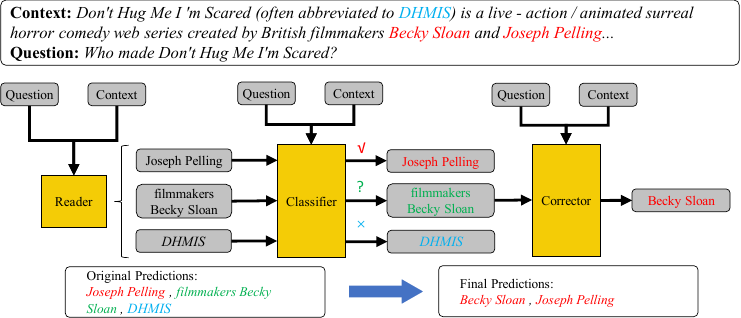
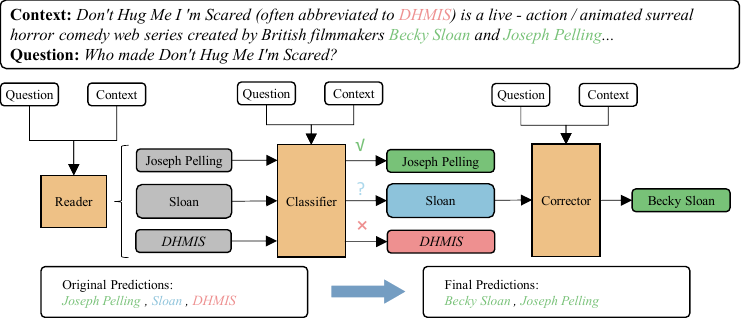
20240921 update

diff --git a/README.md b/README.md
@@ -104,7 +104,7 @@
       |- dev_results.json   # accuracy on the dev set
   ```
 
-  For the following inference steps, here you should move the directory `./output_cls/checkpoint-best` to `./MODEL` and rename it, for example, "cls_ckpt".
+  For the following inference steps, here we recommend you to move the directory `./output_cls/checkpoint-best` to `./MODEL` and rename it, for example, "cls_ckpt".
 
 ### Training the corrector
 
@@ -127,3 +127,8 @@
   ```
 
   The results are in `./output_acc/result.csv`, and the final outputs of the ACC framework are in `./output_acc/predictions_cor.json`
+
+## 0921 Update
+
+* This paper has been accepted as EMNLP 2024 Findings recently.
+* We update the image we use in README. Old image is renamed as `ACC-legacy.png` in the fold `image`.
